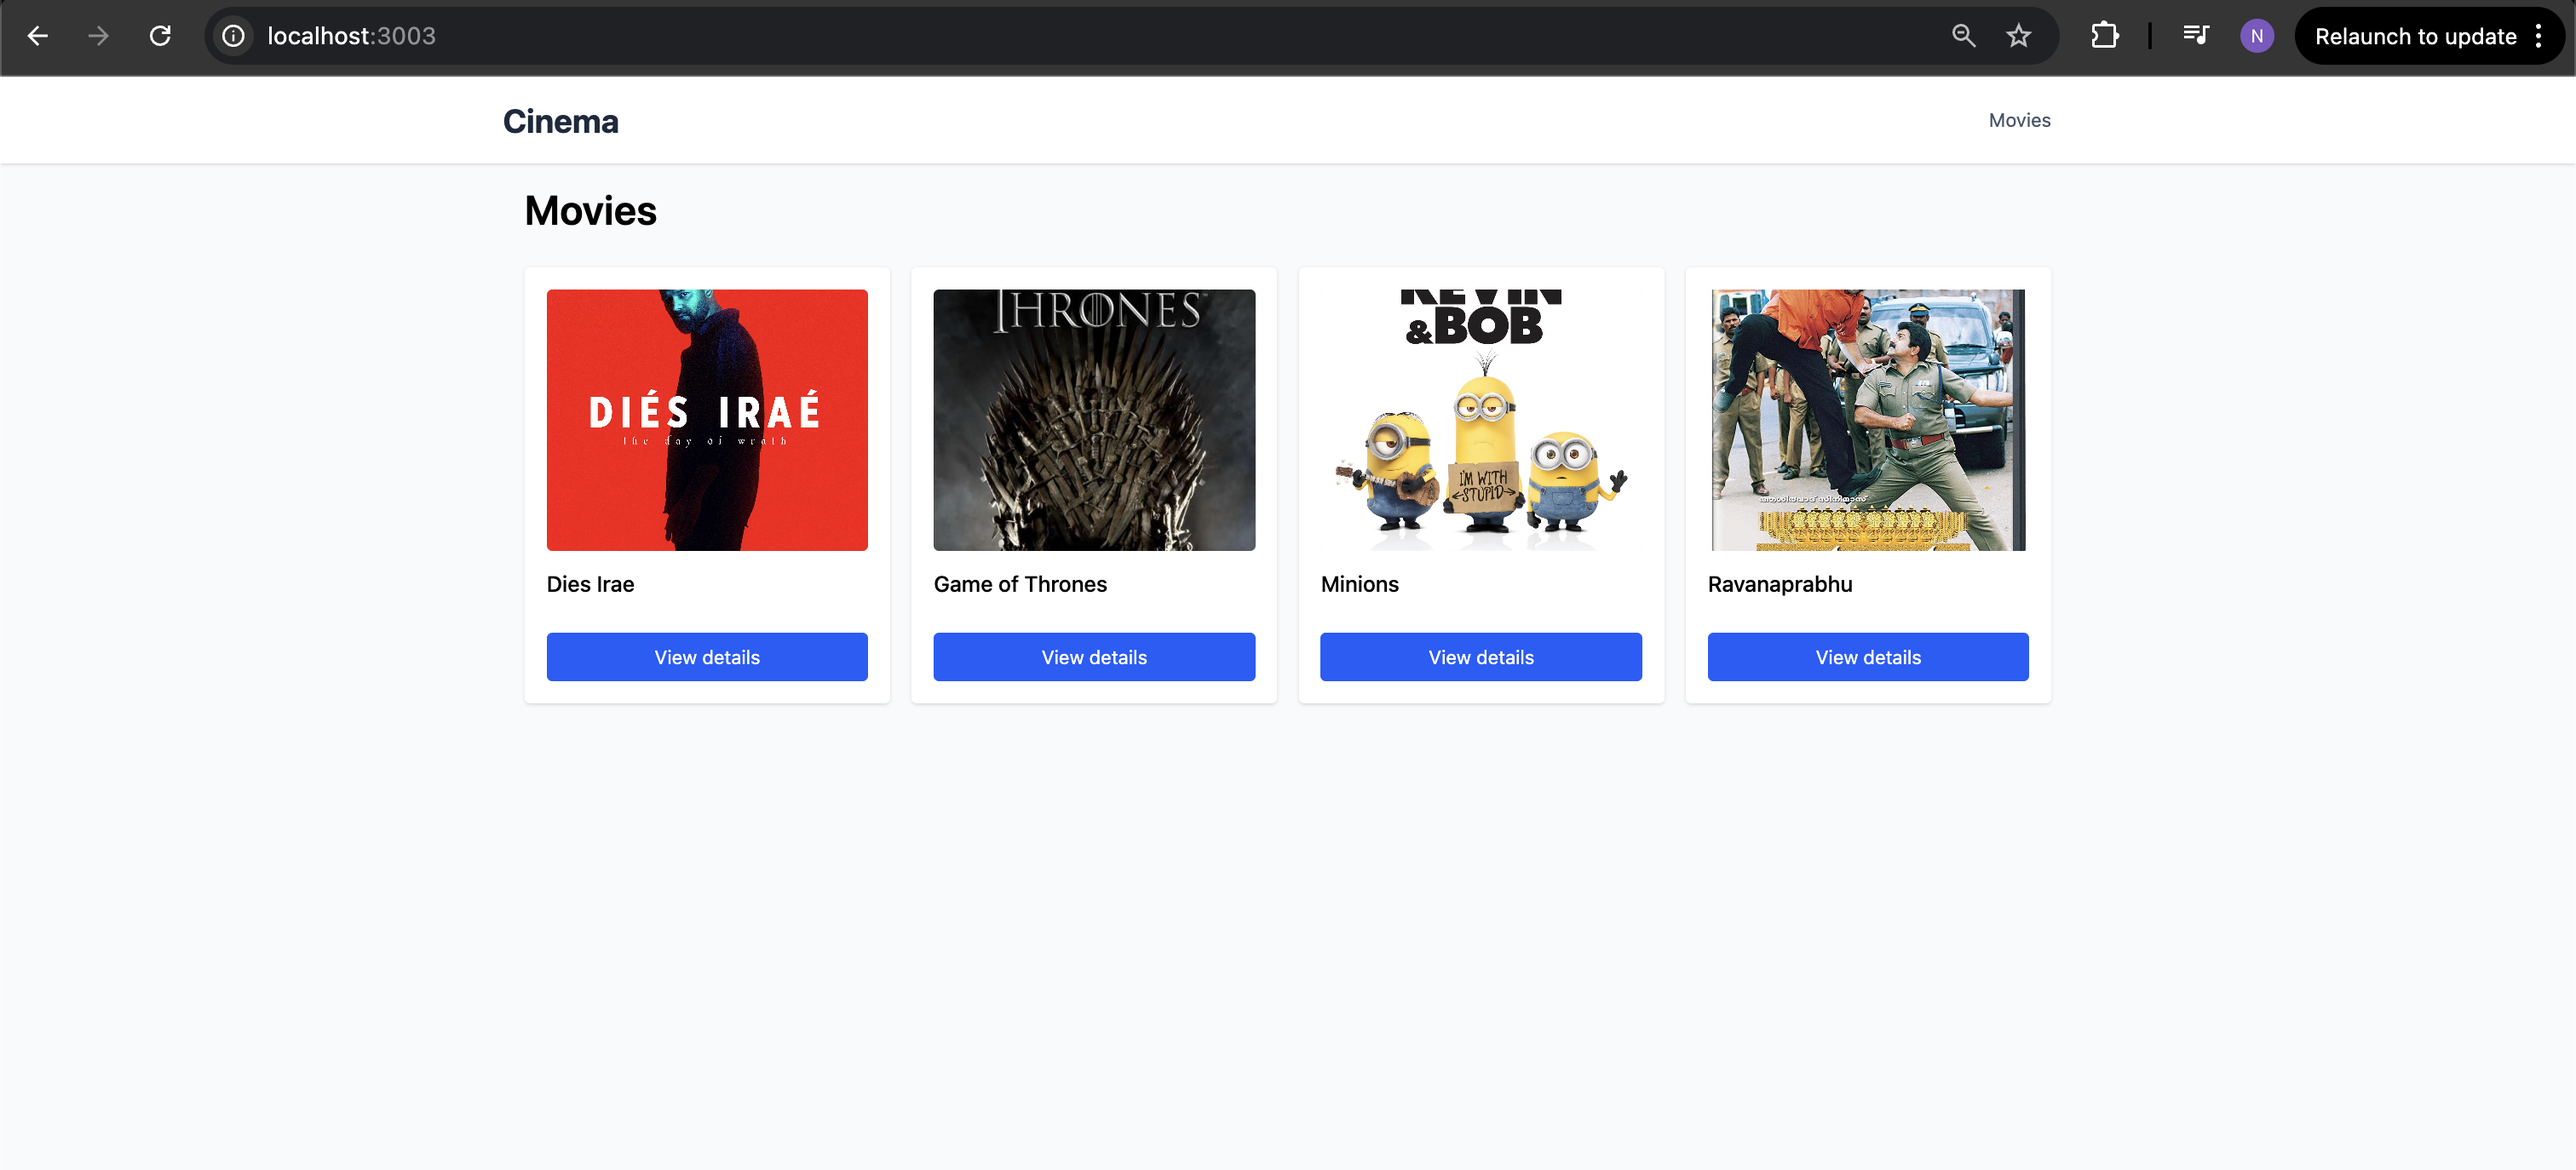
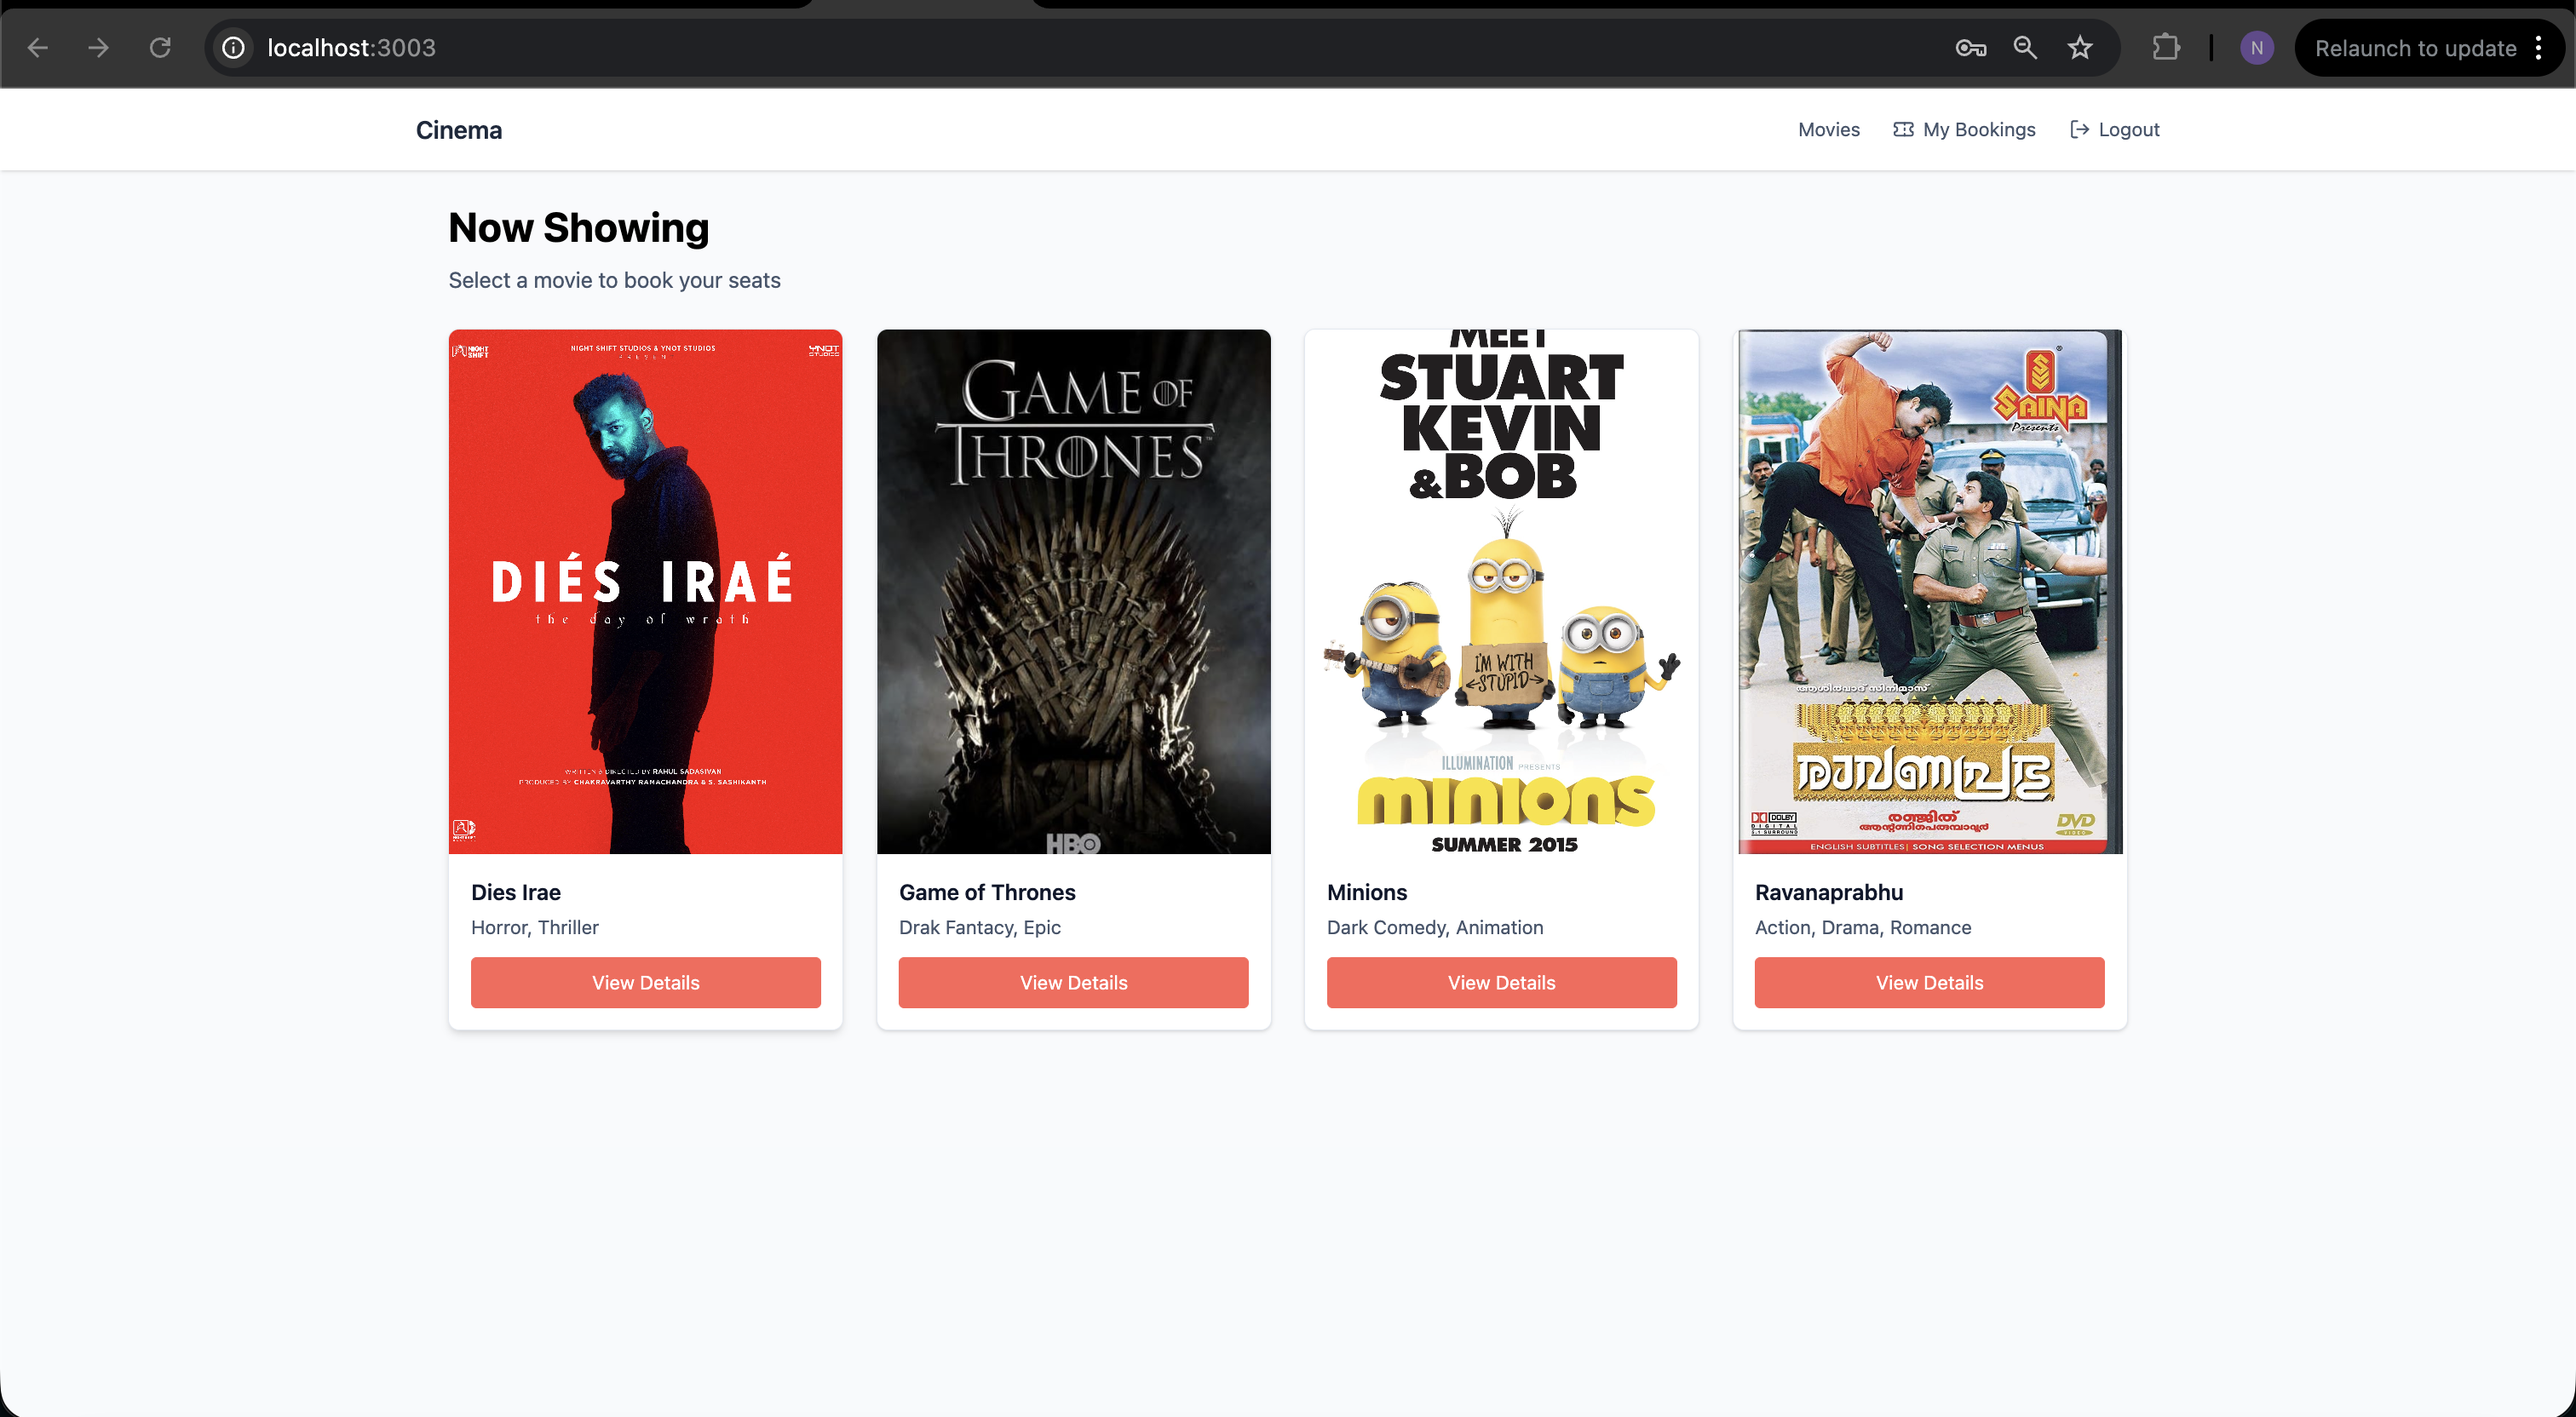
readme updated

Changed region(s): [[0.1554, 0.1528, 0.8393, 0.7336], [0.0, 0.0, 1.0, 0.1223], [0.9947, 0.9782, 1.0, 1.0]]

diff --git a/README.md b/README.md
@@ -6,15 +6,17 @@
 
 ## Tech Stack
 
-| Layer | Tech |
-|-------|------|
-| Framework | **React 19 + TypeScript + Vite** |
-| Styling | **Tailwind CSS** |
-| State Management | **Zustand** |
-| Routing | **React Router v7** |
-| Notifications | **React Hot Toast** |
-| Testing | **Jest + React Testing Library** |
-| Code Quality | **ESLint + Prettier + Husky (pre-commit)** |
+| Layer              | Tech                                       |
+| ------------------ | ------------------------------------------ |
+| Framework          | **React 19 + TypeScript + Vite**           |
+| UI Components      | **Kendo UI for React**                     |
+| Styling            | **Tailwind CSS + Kendo Theme**             |
+| State Management   | **Zustand**                                |
+| Routing            | **React Router v7**                        |
+| Notifications      | **React Hot Toast**                        |
+| Testing            | **Jest + React Testing Library**           |
+| Backend As Service | **Supabase**                               |
+| Code Quality       | **ESLint + Prettier + Husky (pre-commit)** |
 
 ---
 
@@ -27,10 +29,11 @@
    ➜ Click **“Select Seats”** for a chosen theatre.
 
 3. **Seat Selection Page** – Interactive seat grid:
+
    - Seats labeled (A1–J10), grouped by tier:
-     -  Silver ₹100  
-     -  Gold ₹150  
-     -  Platinum ₹200
+     - Silver ₹100
+     - Gold ₹150
+     - Platinum ₹200
    - Click to **select / deselect** (max 8 seats).
    - Disabled (booked) seats are unclickable.
    - Real-time total updates in the summary.
@@ -58,10 +61,12 @@ npm run prepare
 
 ### Features Implemented
 
+- Kendo UI React components (Cards, Buttons, Layout)
 - Responsiveness
 - Unit testing
 - Accessibility
 - Husky pre-commit hook for tests
-- Persistance over refresh using zustand. 
+- Persistance over refresh using zustand
 - Toast notification
-
+- UI with Kendo theming
+- Supabase Backend added
